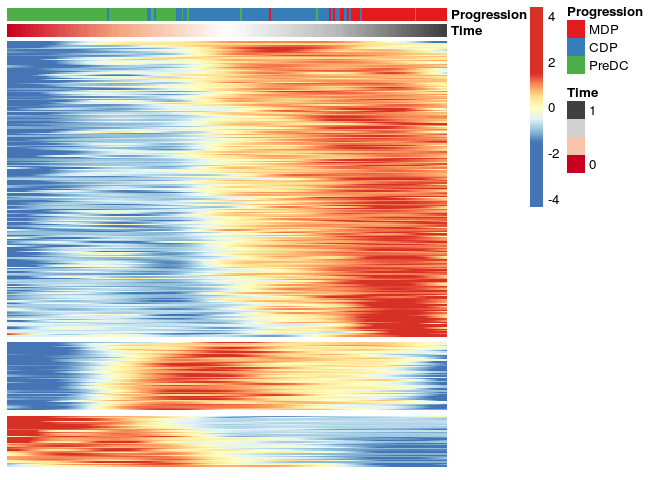
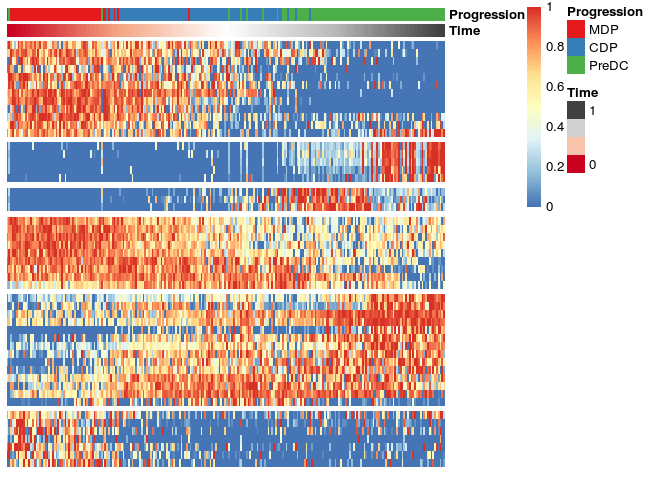
deprecated find.tafs in favor of gene.importances, modified the heatmap scaling, and updated the README

diff --git a/README.md b/README.md
@@ -79,7 +79,7 @@ group.name <- group.name[filt]
 dist <- dist[filt, filt]
 
 # reduce dimensionality
-space <- reduce.dimensionality(dist, ndim=2)
+space <- reduce.dimensionality(dist)
 draw.trajectory.plot(space, group.name)
 ```
 
@@ -94,16 +94,29 @@ draw.trajectory.plot(space, group.name, traj$final.path)
 
 ![](README_files/figure-markdown_github/infer%20trajectory-1.png)
 
-Finally, to identify and visualise candidate marker genes, execute the following code:
+To identify and visualise candidate marker genes, execute the following code:
 
 ``` r
-tafs <- find.trajectory.aligned.features(expression, traj$time, verbose=F)
-expr.tafs <- tafs$smooth.x[,tafs$tafs]
-modules <- extract.modules(expr.tafs)
-draw.trajectory.heatmap(expr.tafs, traj$time, group.name, modules)
+gimp <- gene.importances(expression, traj$time)
+gene.sel <- gimp$gene[1:50]
+expr.sel <- quant.scale(expression[,gene.sel])
+modules <- extract.modules(expr.sel)
+
+# data is already quantile scaled
+draw.trajectory.heatmap(expr.sel, traj$time, group.name, modules, scale.features = F)
 ```
 
 ![](README_files/figure-markdown_github/find%20tafs-1.png)
+
+By executing the trajectory inference step once more, on the scaled expression data of the selected genes (keep the number of genes limited!), the trajectory can be further refined.
+
+``` r
+traj.sel <- infer.trajectory(expr.sel)
+
+draw.trajectory.heatmap(expr.sel, traj.sel$time, group.name, modules, scale.features = F)
+```
+
+![](README_files/figure-markdown_github/rerun%20inference-1.png)
 
 Related approaches
 ------------------
@@ -115,4 +128,4 @@ Related approaches
 References
 ----------
 
-Schlitzer, Andreas, V Sivakamasundari, Jinmiao Chen, Hermi Rizal Bin Sumatoh, Jaring Schreuder, Josephine Lum, Benoit Malleret, et al. 2015. “Identification of cDC1- and cDC2-committed DC progenitors reveals early lineage priming at the common DC progenitor stage in the bone marrow.” *Nature Immunology* 16 (7): 718–26. doi:[10.1038/ni.3200](http://dx.doi.org/10.1038/ni.3200).
+Schlitzer, Andreas, V Sivakamasundari, Jinmiao Chen, Hermi Rizal Bin Sumatoh, Jaring Schreuder, Josephine Lum, Benoit Malleret, et al. 2015. “Identification of cDC1- and cDC2-committed DC progenitors reveals early lineage priming at the common DC progenitor stage in the bone marrow.” *Nature Immunology* 16 (7): 718–26. doi:[10.1038/ni.3200](https://doi.org/10.1038/ni.3200).
